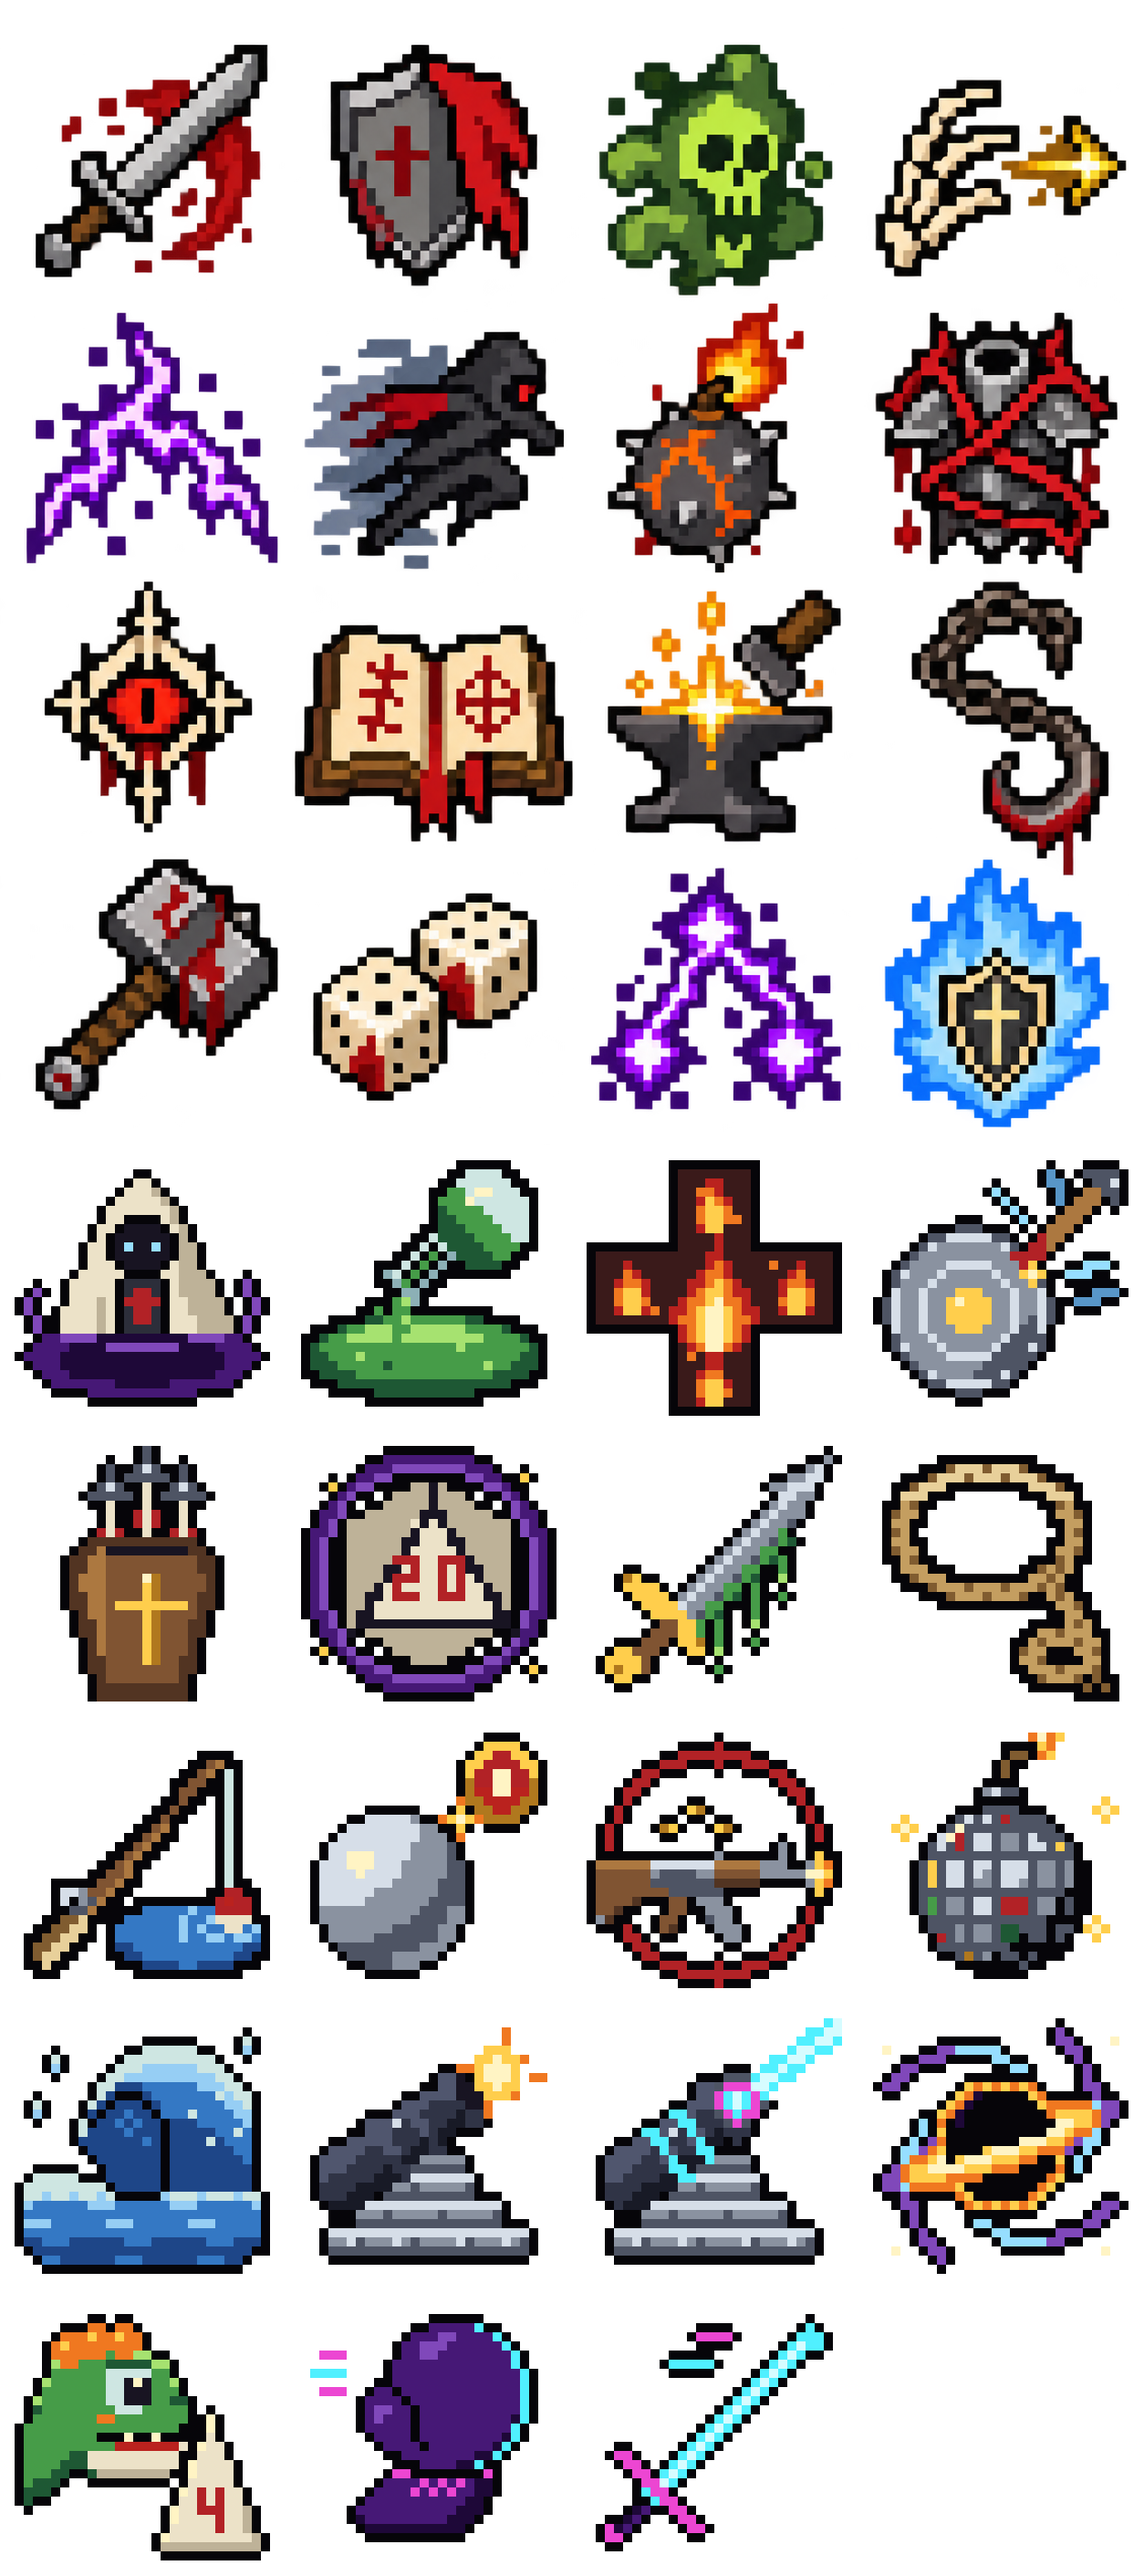
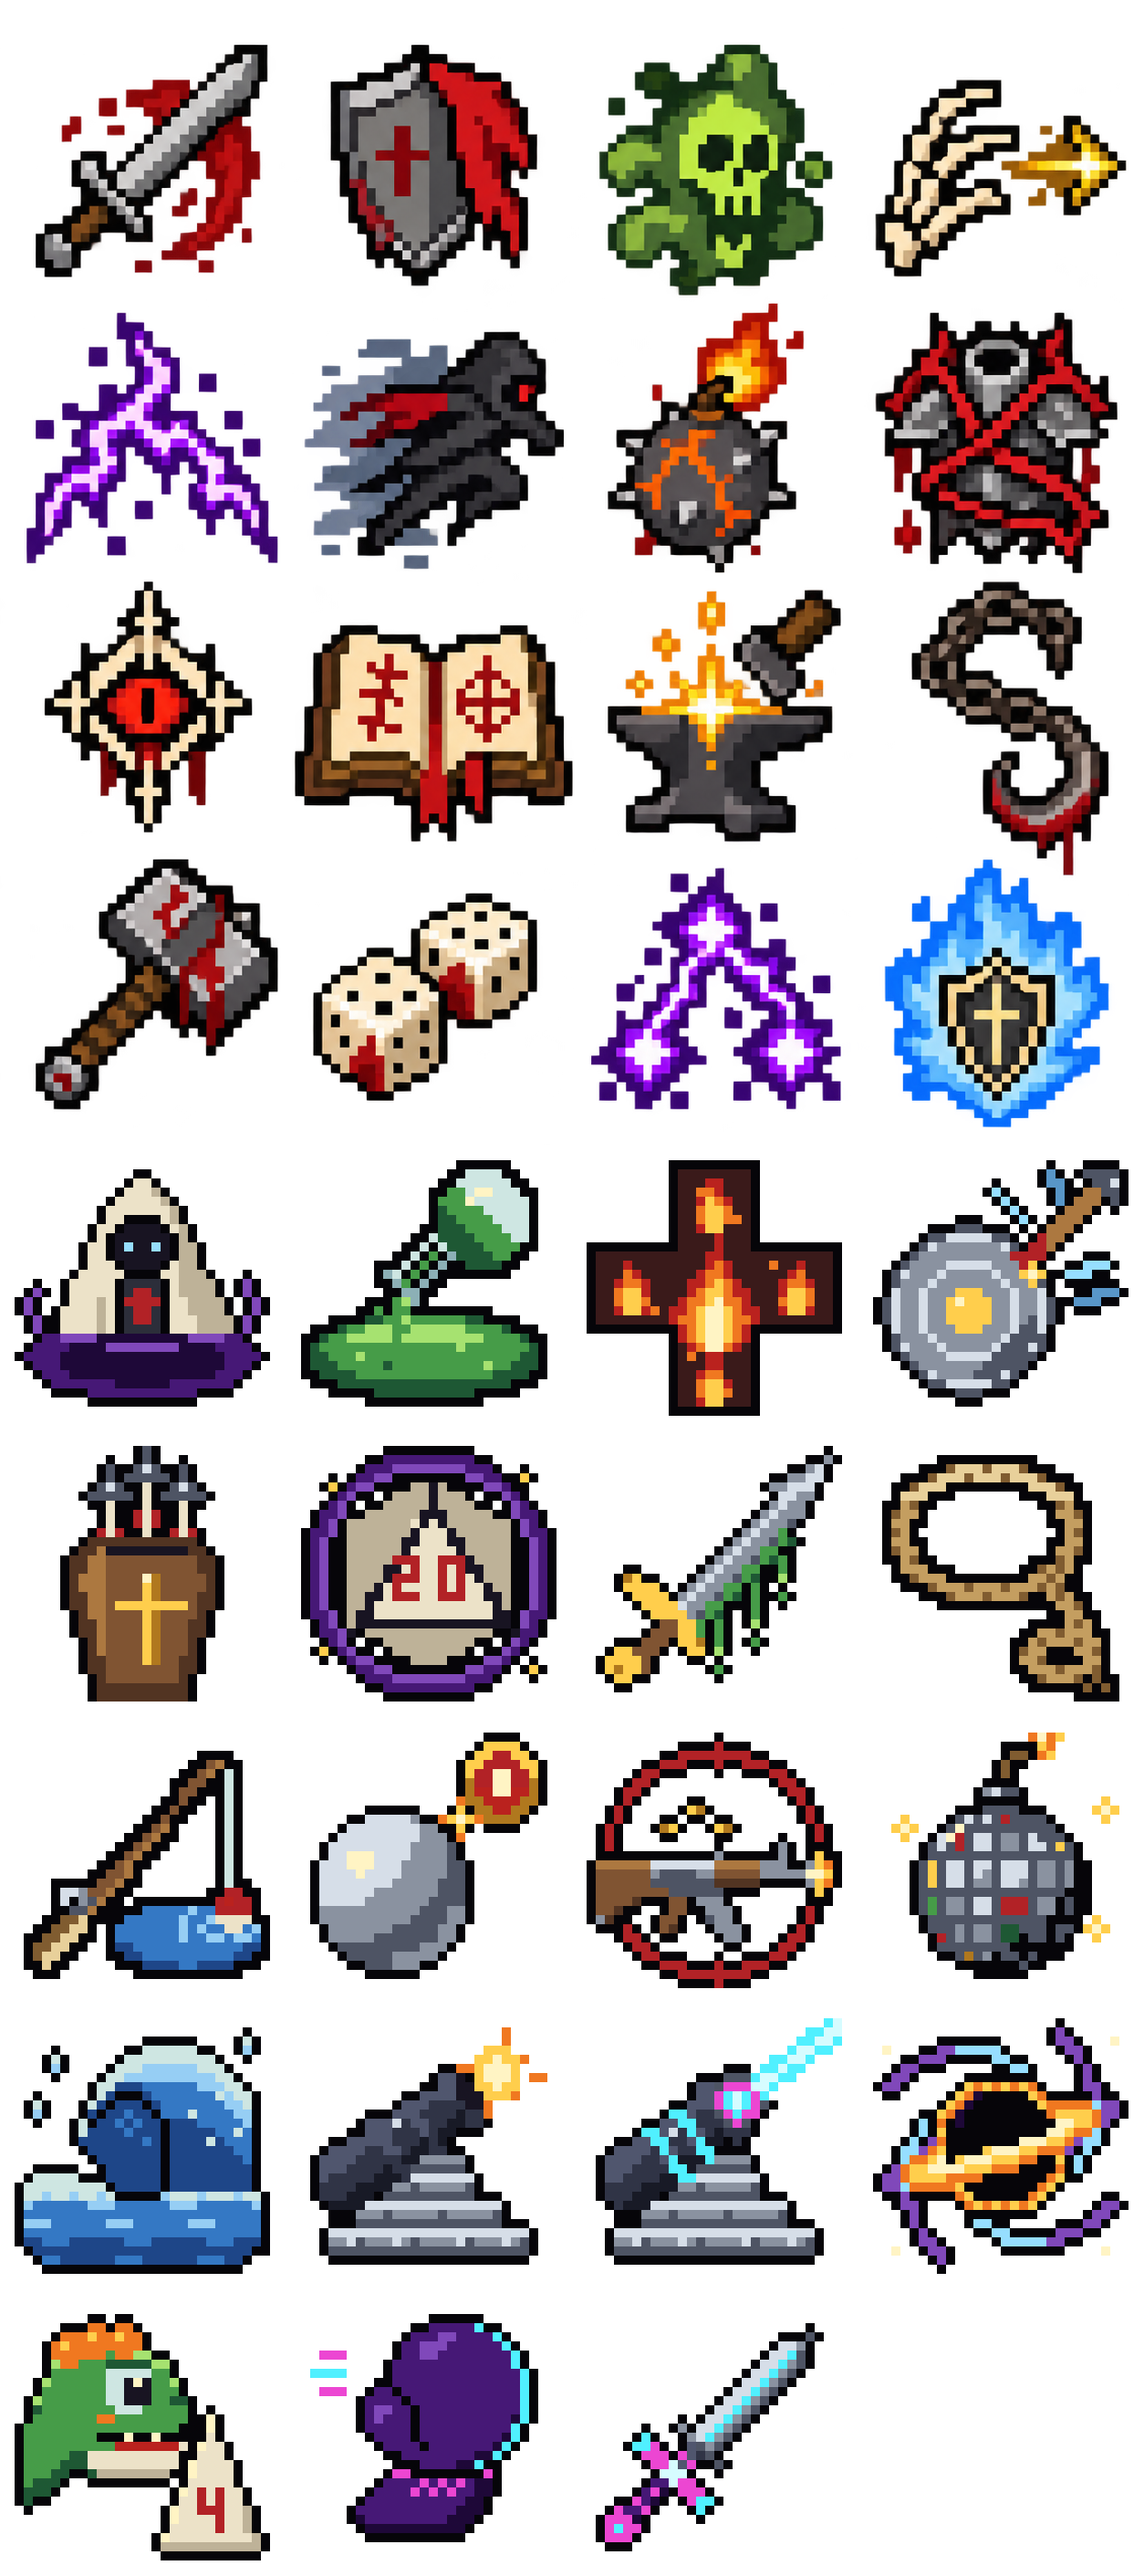
Prima persona, Fase 5, passo 5: icona, parole e HUD della spada
L'icona di First Person Fencer (cella 34) è lo zweihänder Neon in diagonale:
lama d'acciaio con la scanalatura ciano, ganci di parata, ricasso scuro,
guardia larga magenta con le punte ciano, impugnatura lunga, pomo. La carta
dice «SPADONE: TAGLIA E PARA» («SPADONE, PARATA» stretta). Al taglio, accanto
al petto colpito, il cartellino col tipo e il danno («FENDENTE 9») del colore
della qualità (grigio, bianco, oro), con sotto le parole del bonus; con la
guardia alzata quattro angoli attorno al mirino, ciano, d'oro nel quarto di
secondo della parata perfetta, che si stringono alla parata.

Changed region(s): [[0.5287, 0.9043, 0.7464, 0.9979]]

diff --git a/tools/art/build_card_icons.py b/tools/art/build_card_icons.py
@@ -73,8 +73,11 @@ docs/piano-prima-persona.md adds one more, in the Neon style of its Fase 3:
              right with a cyan rim of light, its thumb along its side, a dark
              cuff under a magenta band, laced in magenta, three strokes of
              speed behind it.
-    cell 34  First Person Fencer (provisional until its Fase 5): a Neon sword
-             across the cell from the lower left, a magenta guard and pommel.
+    cell 34  First Person Fencer (its Fase 5): the Neon zweihänder across the
+             cell from the lower left: a steel blade with a cyan fuller, the
+             parrying hooks and a dark ricasso, a broad magenta cross guard lit
+             cyan at its ends, a long violet grip ringed in magenta, a magenta
+             pommel with a cyan core.
 
 Options:
     --check        exit 1 if the atlas is not what this script would write
@@ -755,37 +758,40 @@ assert all(len(row) == 28 for row in BRAWLER) and len(BRAWLER) == 28
 
 ICONS.update({33: BRAWLER})
 
-# docs/piano-prima-persona.md, Fase 4: First Person Fencer, provisional until its
-# Fase 5: a Neon sword across the cell from the lower left (a white core in a
-# cyan blade, a magenta guard and pommel, a violet grip), speed strokes above.
+# docs/piano-prima-persona.md, Fase 5: First Person Fencer, the Neon zweihänder
+# the user chose (a two-handed great sword, cybernetic and majestic) across the
+# cell from the lower left: its steel blade lit on one side with a cyan fuller,
+# the parrying hooks, the dark ricasso with a magenta ring, the broad magenta
+# cross guard with a white core and cyan ends, the long grip, the pommel.
+# Painted by tools: rasterised along the blade's line, outlined on four sides.
 FENCER = (
     "............................",
+    "............................",
     "........................K...",
-    "............KKKK.......KXK..",
-    "...........KPPPPK.....KXXXK.",
-    "............KKKK.....KXyXXK.",
-    ".........KKKKK......KXyXKK..",
-    "........KXXXXXK....KXyXK....",
-    ".........KKKKK....KXyXK.....",
-    ".................KXyXK......",
-    "................KXyXK.......",
-    "...............KXyXK........",
-    "..............KXyXK.........",
-    ".............KXyXK..........",
-    "............KXyXK...........",
-    "...........KXyXK............",
-    "...KK.....KXyXK.............",
-    "..KPPK...KXyXK..............",
-    "...KPPK.KXyXK...............",
-    "....KPPKXyXK................",
-    ".....KPPyXK.................",
-    ".....KXPPK..................",
-    ".....KKXPPK.................",
-    "....KSVKKPPK................",
-    "..KKSVK..KPPK...............",
-    ".KPSVK....KPPK..............",
-    ".KPPK......KK...............",
-    "..KK........................",
+    ".....................KKKmK..",
+    "....................KHHMK...",
+    "...................KHHXmK...",
+    "..................KHHXMmK...",
+    ".................KHHXMmK....",
+    "................KHHXMmK.....",
+    "...............KHHXMmK......",
+    "..............KHHXMmK.......",
+    ".............KHHXMmK........",
+    "..........K.KHHXMmK.........",
+    "......K..KMKHHXMmK..........",
+    ".....KXK..KMHXMmK...........",
+    "....KXXPK.KzmMmK............",
+    ".....KPPPKPzZmK.............",
+    "......KPPyzPKKmK............",
+    ".......KyyyK..K.............",
+    "......KVVyPPK...............",
+    ".....KVPSKPPPK..............",
+    "...KKPVSK.KPXXK.............",
+    "..KPVVPK...KXK..............",
+    ".KPPPSK.....K...............",
+    ".KPXPPK.....................",
+    ".KPPPK......................",
+    "..KKK.......................",
     "............................",
 )
 assert all(len(row) == 28 for row in FENCER) and len(FENCER) == 28
